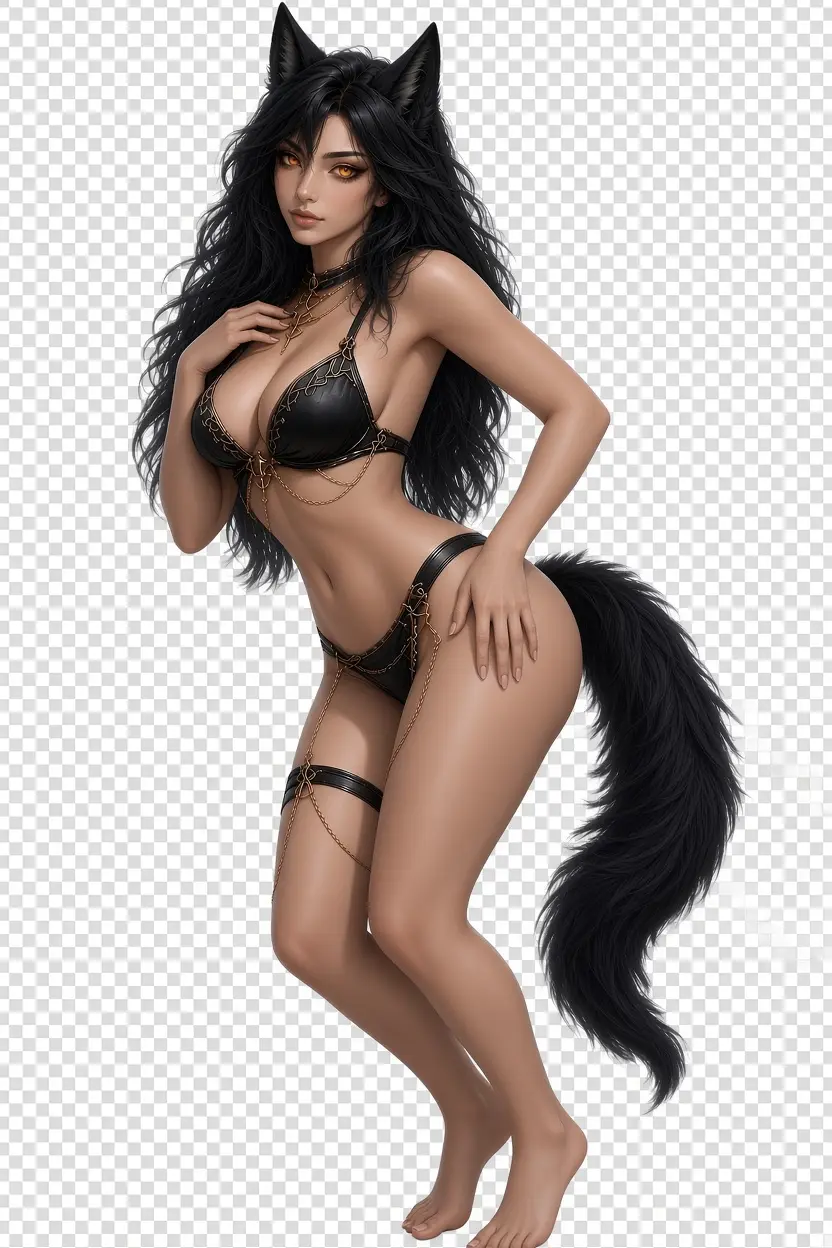
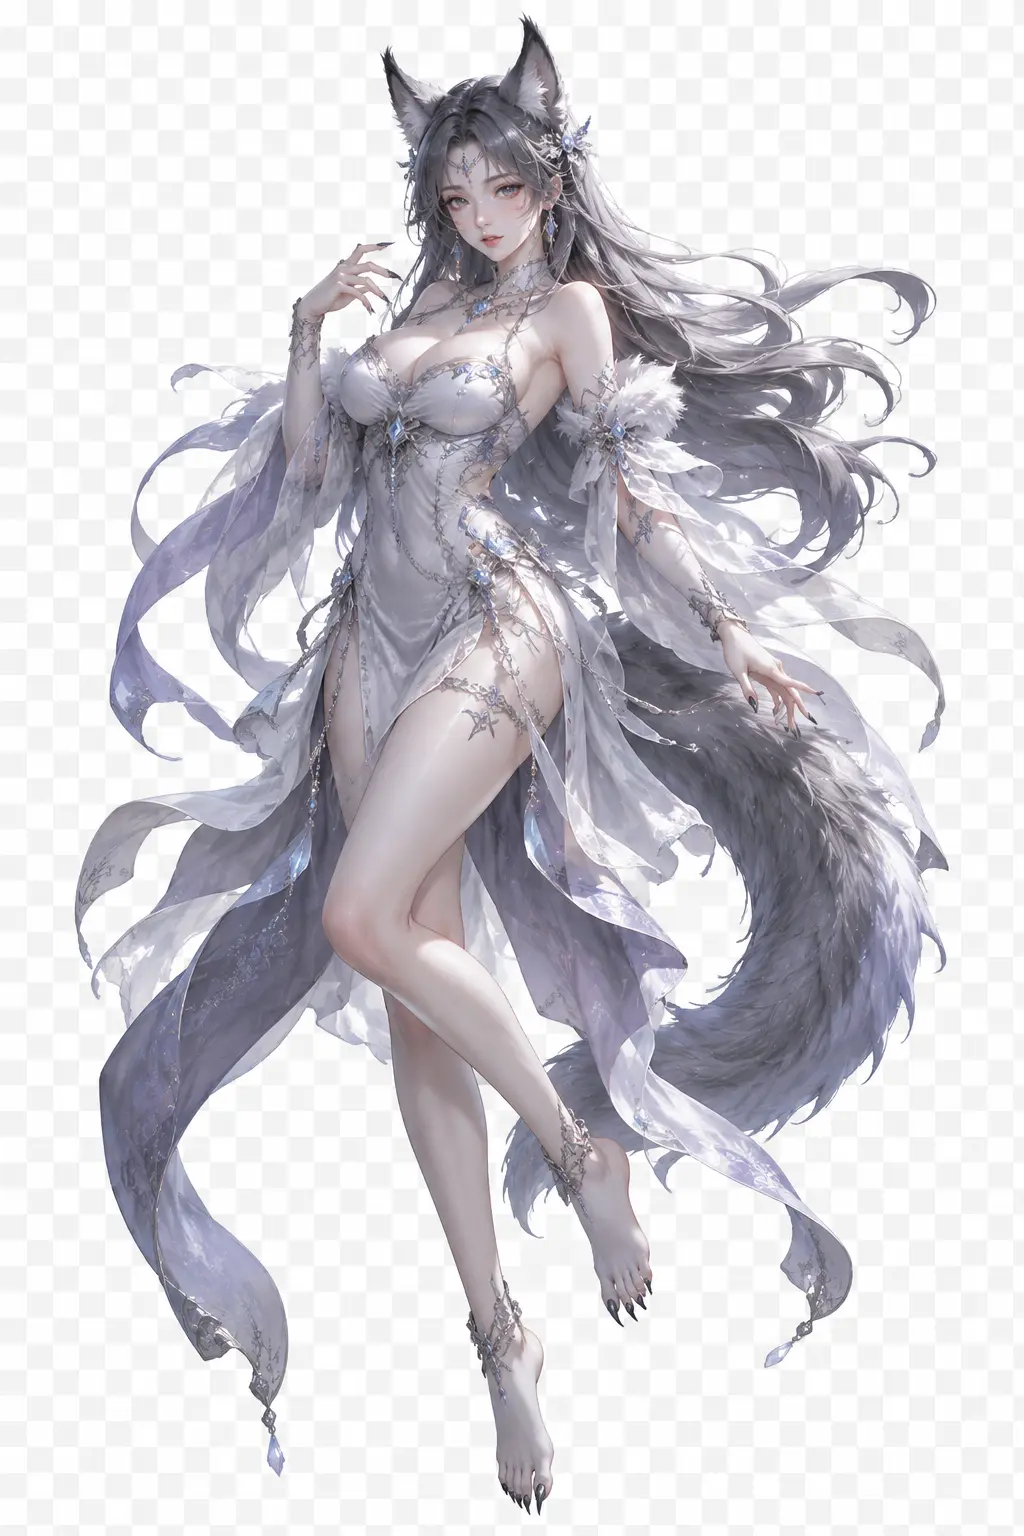
update: giao diện chiến đâu

diff --git a/src/app/battle/components/BattleTab.tsx b/src/app/battle/components/BattleTab.tsx
@@ -1,0 +1,243 @@
+"use client";
+
+import Image from "next/image";
+
+import { useCharacterStore } from "@/lib/useStore/useCharacterStore";
+import { useMapStore } from "@/lib/useStore/useMapStore";
+
+const BattleTab = () => {
+  const { character } = useCharacterStore();
+  const { progressMap } = useMapStore();
+
+  const currentMap = progressMap?.maps?.find(
+    (map) => map._id === progressMap?.currentMapId,
+  );
+
+  const currentMonster = currentMap?.monsters?.[0]?.monsterId;
+
+  return (
+    <section className="h-full w-full flex flex-col overflow-hidden">
+      <div className="flex h-full flex-col flex-7/12">
+        {/* battle area */}
+        <div
+          className="relative flex items-end h-full"
+          style={{
+            backgroundImage: `url('${currentMap?.icon}')`,
+            backgroundSize: "cover",
+            backgroundPosition: "center",
+          }}
+        >
+          {/* map info */}
+          <div
+            className="
+              absolute top-3 left-1/2
+              -translate-x-1/2
+              rounded-xl
+              bg-black/50
+              px-4 py-2
+              text-center
+              text-white
+              backdrop-blur-sm
+            "
+          >
+            <div className="font-semibold">{currentMap?.name}</div>
+
+            <div className="text-xs text-zinc-200">
+              Tầng {progressMap?.currentStage}/{currentMap?.maxStage}
+            </div>
+          </div>
+
+          {/* character */}
+          <div className="absolute bottom-2 left-4">
+            <div className="mb-2 w-32">
+              <div className="mb-1 text-xs font-semibold text-white">
+                {character.name}
+              </div>
+
+              <div className="h-2 overflow-hidden rounded bg-zinc-800">
+                <div
+                  className="h-full bg-green-500"
+                  style={{ width: "100%" }}
+                />
+              </div>
+            </div>
+
+            <Image
+              src="/chars/char.webp"
+              alt="Nhân vật"
+              width={130}
+              height={130}
+              className="drop-shadow-xl"
+            />
+          </div>
+
+          {/* monster */}
+          <div className="absolute bottom-2 right-4">
+            <div className="mb-2 w-32">
+              <div className="mb-1 text-right text-xs font-semibold text-white">
+                {currentMonster?.name || "Quái vật"}
+              </div>
+
+              <div className="h-2 overflow-hidden rounded bg-zinc-800">
+                <div className="h-full bg-red-500" style={{ width: "100%" }} />
+              </div>
+            </div>
+
+            <Image
+              src={currentMonster?.icon || ""}
+              alt="Monster"
+              width={130}
+              height={130}
+              className="
+                scale-x-[-1]
+                drop-shadow-xl
+              "
+            />
+          </div>
+
+          {/* speed button */}
+          <div
+            className="
+              absolute right-3 bottom-2"
+          >
+            <button
+              className="
+                rounded-lg
+                bg-black/60
+                px-3 py-2
+                text-sm font-bold
+                text-white
+              "
+            >
+              x2
+            </button>
+          </div>
+        </div>
+      </div>
+
+      {/* bottom panel */}
+      <div className="bg-zinc-100 p-3 flex-5/12">
+        <div className="mb-2 font-semibold text-zinc-700">Kỹ năng</div>
+
+        <div className="grid grid-cols-4 gap-3">
+          {Array.from({ length: 4 }).map((_, index) => {
+            const equippedSkill = character.equippedSkills?.find(
+              (skill) => skill.slot === index + 1,
+            );
+
+            const skillData = character.inventory.skills?.find(
+              (skill) => skill.skillId._id === equippedSkill?.skillId,
+            );
+
+            return (
+              <div
+                key={index}
+                className="
+                    relative
+                    aspect-square
+                    rounded-xl
+                    border-2
+                    border-amber-300
+                    bg-white
+                    p-2
+                    shadow-sm
+                  "
+              >
+                {skillData?.skillId?.cooldown ? (
+                  <div
+                    className="absolute h-full w-full top-0 right-0 rounded-xl bg-black/20
+                  flex justify-center items-center text-3xl font-bold text-red-500"
+                  >
+                    {skillData?.skillId?.cooldown}
+                  </div>
+                ) : (
+                  ""
+                )}
+                {skillData ? (
+                  <>
+                    <Image
+                      src={skillData.skillId.icon}
+                      alt={skillData.skillId.name}
+                      width={64}
+                      height={64}
+                      className="
+                          h-full
+                          w-full
+                          object-contain
+                        "
+                    />
+
+                    <span
+                      className="
+                          absolute
+                          bottom-1
+                          right-1
+                          rounded
+                          bg-black/70
+                          px-1
+                          text-[10px]
+                          text-white
+                        "
+                    >
+                      Lv.{skillData.level}
+                    </span>
+                  </>
+                ) : (
+                  <div
+                    className="
+                        flex
+                        h-full
+                        items-center
+                        justify-center
+                        text-xs
+                        text-zinc-400
+                      "
+                  >
+                    Trống
+                  </div>
+                )}
+              </div>
+            );
+          })}
+        </div>
+
+        <div className="bg-white max-h-60 rounded-3xl p-4 flex flex-col gap-2 overflow-y-scroll">
+          <div className="italic">
+            Bạn dùng <span className="text-green-500">Phong Trảm</span> gây{" "}
+            <span className="text-red-500">200</span> sát thương cho kẻ địch Yêu
+          </div>
+          <div className="italic">
+            Bạn bị Yêu Thỏ tấn công mất{" "}
+            <span className="text-yellow-500">100</span> máu
+          </div>
+          <div className="italic">
+            Bạn dùng <span className="text-green-500">Phong Trảm</span> gây{" "}
+            <span className="text-red-500">200</span> sát thương cho kẻ địch Yêu
+          </div>
+          <div className="italic">
+            Bạn bị Yêu Thỏ tấn công mất{" "}
+            <span className="text-yellow-500">100</span> máu
+          </div>
+          <div className="italic">
+            Bạn dùng <span className="text-green-500">Phong Trảm</span> gây{" "}
+            <span className="text-red-500">200</span> sát thương cho kẻ địch Yêu
+          </div>
+          <div className="italic">
+            Bạn bị Yêu Thỏ tấn công mất{" "}
+            <span className="text-yellow-500">100</span> máu
+          </div>
+          <div className="italic">
+            Bạn dùng <span className="text-green-500">Phong Trảm</span> gây{" "}
+            <span className="text-red-500">200</span> sát thương cho kẻ địch Yêu
+          </div>
+          <div className="italic">
+            Bạn bị Yêu Thỏ tấn công mất{" "}
+            <span className="text-yellow-500">100</span> máu
+          </div>
+        </div>
+      </div>
+    </section>
+  );
+};
+
+export default BattleTab;

diff --git a/src/app/game/components/TheGioiTab.tsx b/src/app/game/components/TheGioiTab.tsx
@@ -1,14 +1,27 @@
 "use client";
 
 import { progressMapAPI } from "@/app/axios/characterAPI";
+import { showWarning } from "@/lib/toast";
 import { useCharacterStore } from "@/lib/useStore/useCharacterStore";
 import { useMapStore } from "@/lib/useStore/useMapStore";
 import Image from "next/image";
+import { useRouter } from "next/navigation";
+
 import { useEffect } from "react";
 
 export default function TheGioiTab() {
   const { character } = useCharacterStore();
   const { progressMap, setProgressMap } = useMapStore();
+
+  const router = useRouter();
+
+  const pushBattle = () => {
+    if (true) {
+      router.push("/battle");
+    } else {
+      showWarning("Bạn chưa hoàn thành bản đồ trước đó");
+    }
+  };
 
   useEffect(() => {
     const mapProgressApi = async () => {
@@ -44,7 +57,10 @@ export default function TheGioiTab() {
               key={map._id}
               className={`flex ${isLeft ? "justify-start" : "justify-end"}`}
             >
-              <div className="relative h-fit flex justify-center flex-col items-center">
+              <div
+                onClick={pushBattle}
+                className="relative h-fit flex justify-center flex-col items-center"
+              >
                 {curMap && (
                   <Image
                     src="/chars/char.webp"

diff --git a/src/lib/constants.tsx b/src/lib/constants.tsx
@@ -3,6 +3,7 @@ import DongPhuTab from "@/app/game/components/DongPhuTab";
 import NhanVatTab from "@/app/game/components/NhanVatTab";
 import TheGioiTab from "@/app/game/components/TheGioiTab";
 import KyNangTab from "@/app/game/components/KyNangTab";
+import BattleTab from "@/app/battle/components/BattleTab";
 
 export const TABS = [
   {
@@ -34,7 +35,13 @@ export const TABS = [
     label: "Thế giới",
     icon: "🌍",
     accent: "from-emerald-500 to-lime-400",
-  },
+  },  
+  // {
+  //   key: "chiendau",
+  //   label: "Thế giới",
+  //   icon: "xxx",
+  //   accent: "from-emerald-500 to-lime-400",
+  // },  
 ] as const;
 
 export const renderContent = (activeTab: string) => {
@@ -49,6 +56,8 @@ export const renderContent = (activeTab: string) => {
       return <KyNangTab />;
     case "nhanvat":
       return <NhanVatTab />;
+    // case "chiendau":
+    //   return <BattleTab />;
     default:
       return <DongPhuTab />;
   }

diff --git a/src/app/game/page.tsx b/src/app/game/page.tsx
@@ -2,12 +2,10 @@
 
 import { renderContent, TABS } from "@/lib/constants";
 
-
 import { useState } from "react";
 
 export default function GamePage() {
   const [activeTab, setActiveTab] = useState("dongphu");
-
 
   return (
     <main className="h-screen overflow-hidden text-zinc-800 sm:min-h-screen sm:py-8">
@@ -21,7 +19,7 @@ export default function GamePage() {
                 onClick={() => setActiveTab(tab.key)}
                 className={`flex h-12 w-12 items-center justify-center rounded-full text-lg transition ${
                   isActive
-                    ? `bg-gradient-to-r ${tab.accent} text-white shadow-md`
+                    ? `bg-linear-to-r ${tab.accent} text-white shadow-md`
                     : "bg-zinc-100 text-zinc-700"
                 }`}
                 title={tab.label}

diff --git a/src/app/battle/page.tsx b/src/app/battle/page.tsx
@@ -1,0 +1,9 @@
+import BattleTab from "./components/BattleTab";
+
+export default function BattlePage() {
+  return (
+    <div className="h-screen">
+      <BattleTab />
+    </div>
+  );
+}
